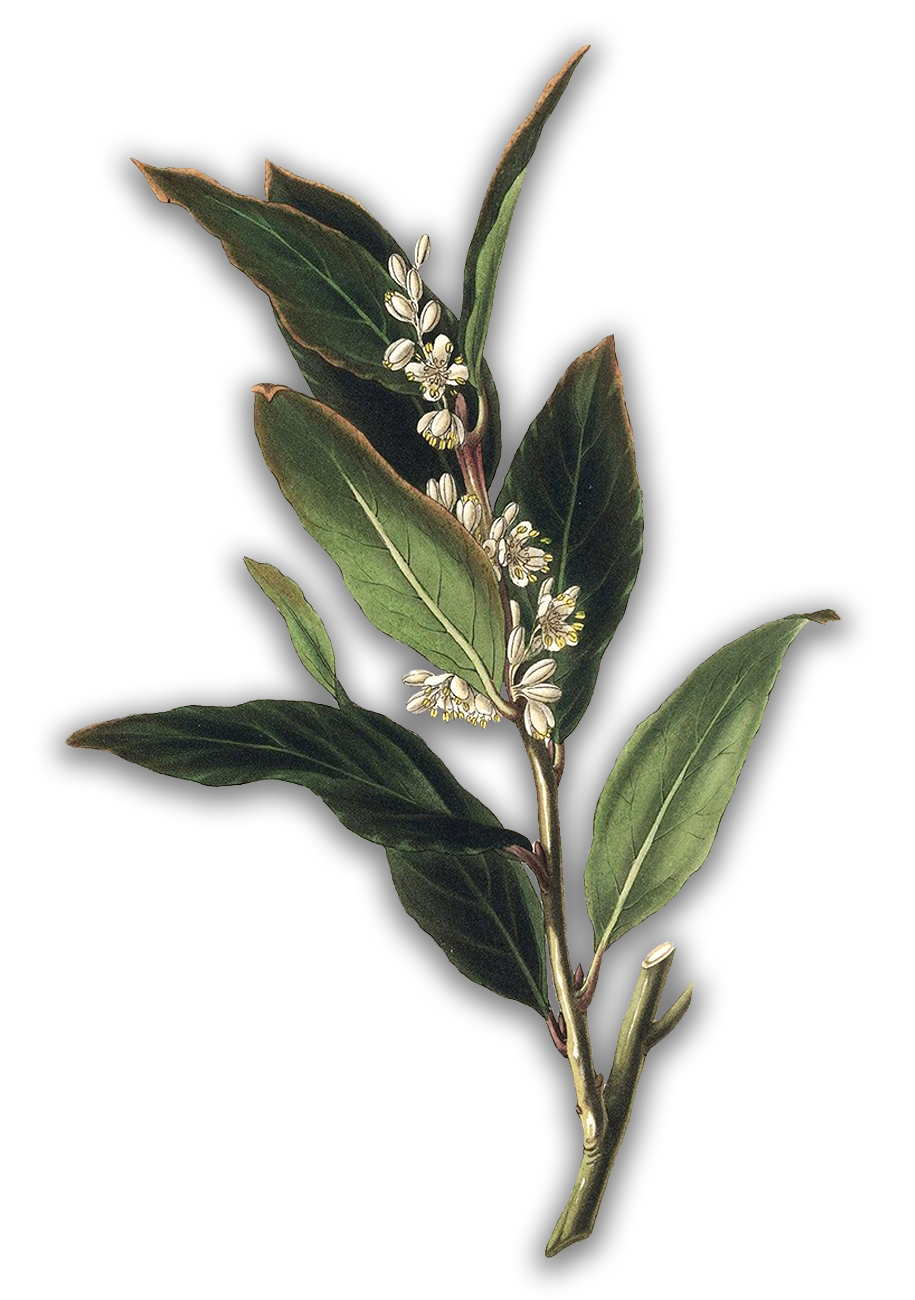
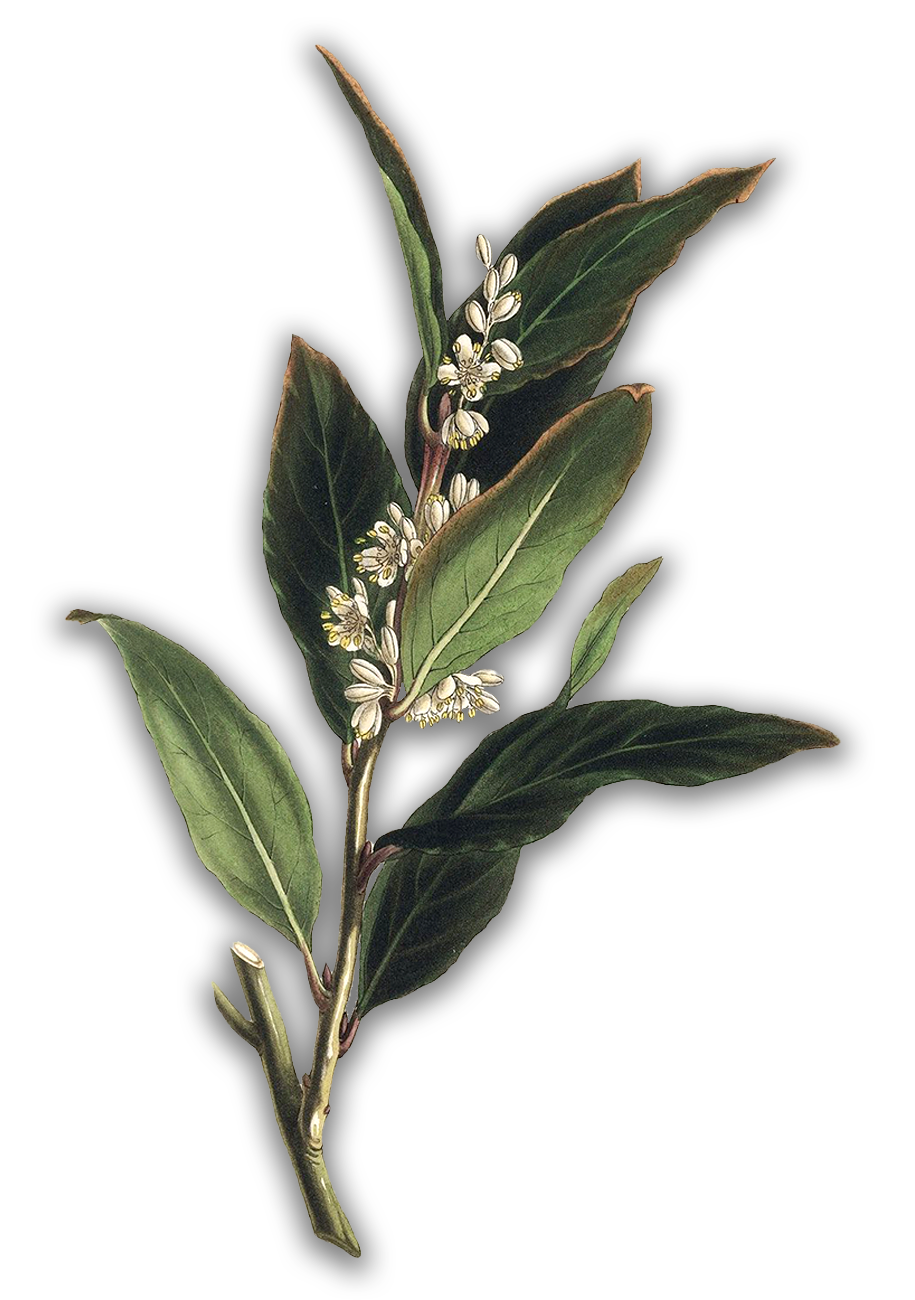
laurel page update

diff --git a/CSS/laurel.css b/CSS/laurel.css
@@ -12,7 +12,10 @@
   position: relative;
   height: 1350px;
   width: 950px;
+  right:0px;
+  top: 0px;
 }
+
 .laurelH1 {
 width: 100%;
   font-family: head;
@@ -21,11 +24,38 @@ width: 100%;
   text-shadow: 2px 2px 5px white;
   color:black;
   position: relative;
+  top: 0px;
+}
+/* h1{
+  position: absolute;
+  width: 100%;
+  top: -20px;
+  font-size: 120px;
+
+}
+
+h2{
+  position: relative;
+  /* width: 100%; */
+  /* font-size: 55px;
+} */
+p {
+  font-family: body;
+  /* width: 650px; */
+  right: 0;
+  font-size: 48px;
+  text-align: right;
+  top: 220px;
+  position: relative;
 }
 .laurel {
-  position: relative;
-top:0px;
+  width: 420px;
+  position: absolute;
+top:150px;
+z-index: -1;
+
 }
+
 
 #container2{
   position: absolute;

diff --git a/pages/laurel.html b/pages/laurel.html
@@ -8,8 +8,9 @@
   <body>
     <div id="container">
 <div class="laurelH1">
-  <h1>California Bay Laurel</h1> </div>
-<p>hahsdahsldjlasjfkjadlkgjkdnglnadknlnagadf</p>
+<h1>California
+Bay Laurel</h1></div>
+<p>hahsdahsldj sjfkjadlk gjkdngln adknlnagadf</p>
 </div>
 
 <img class="laurel" src="../img/laurel/laurel.png" alt="">
